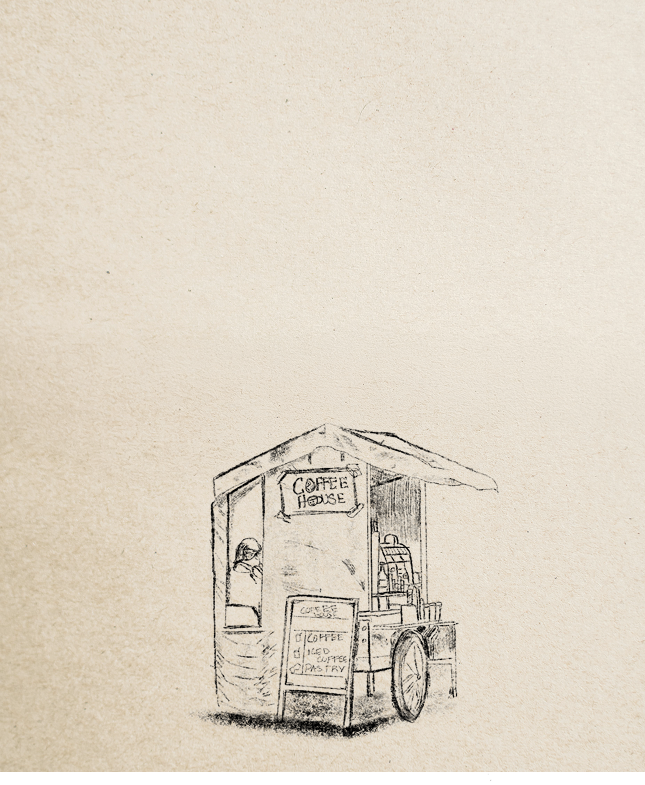
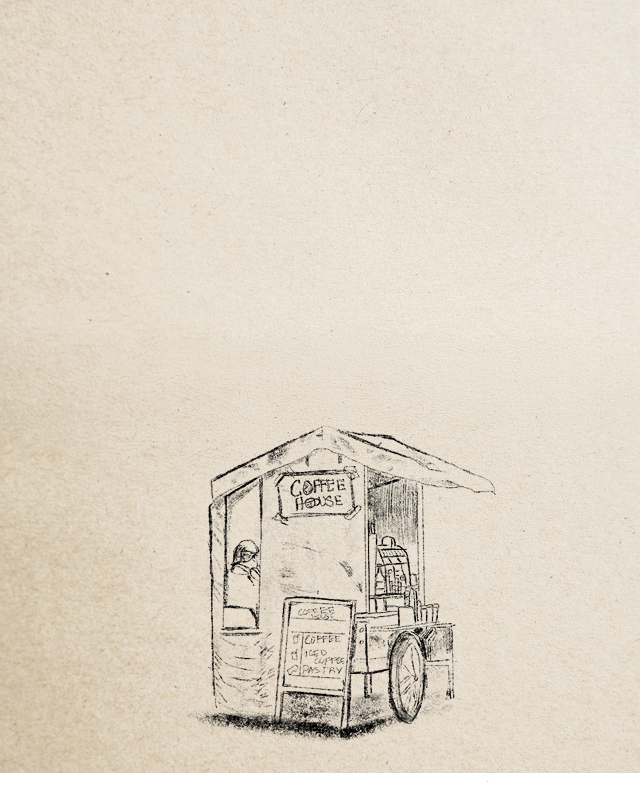
fixing the same crap again

Changed region(s): [[0.3125, 0.5197, 0.7812, 0.9478]]

diff --git a/index.html b/index.html
@@ -66,30 +66,7 @@ We are new addtion to the area, but we hope to provide a comfortable spot for vi
 
 
 
-            <div id="about2"> 
-               
-               
-                <div class="leftwelcomecoffeehouse">
-                            <img src="images/leftbeginning.png">
-                        </div>
-
-                         <div class="backgroundwelcome2">
-                        
-                   <h1 class="headerbeginning"> The beginning...
-                
-                </h1>  
-                <p class="beginparagraph">
-                    
-                    The owner, Julia Cortes, grew up in between Allentown and Bethlehem, and got the opportunity to create “Coffee House” after selling in local events with her coffee cart and traveling across the east cost for pop ups. Julia always had the intentions of COFFEE HOUSE being able to give back to the community in small ways as a small buisness. 
-                    <br>  <br>
-                    So far COFFEE HOUSE has hosted events for local public Schools and organizations to have the opportunity to visit the cafe and observe baristsas roasters and pastry chefs up close. As well as enjoy coffee, hot chocolate and have a sneak peak at new menu items. Julia plans to do more collaborations such as using local artists’ work for decoration, mugs and plates, and pottery for plants. She intends to continue to be more involved in events around the Lehigh Valley, and contribute through fundraising and donations.  
-                </p>
-                
-              
-                
-                </div>
-
-            </div>
+            
 
             
 

diff --git a/css/style.css b/css/style.css
@@ -107,12 +107,12 @@ margin-top: 100px;
  {
 
    
-    background-image: url(../images/coffeehouse1background.png);
+    background-image: url(../images/welcomebackground.jpg);
 
-width: 648px;
+width: 640px;
 height: 772px;
    background-repeat: no-repeat;
-
+margin-left: -4px;
    
    
 
@@ -121,7 +121,7 @@ height: 772px;
  .rightwelcomecoffeehouse
  {
     float: left;
-    margin-left: 648px;
+    margin-left: 640px;
     margin-top: -772px;
 
     
